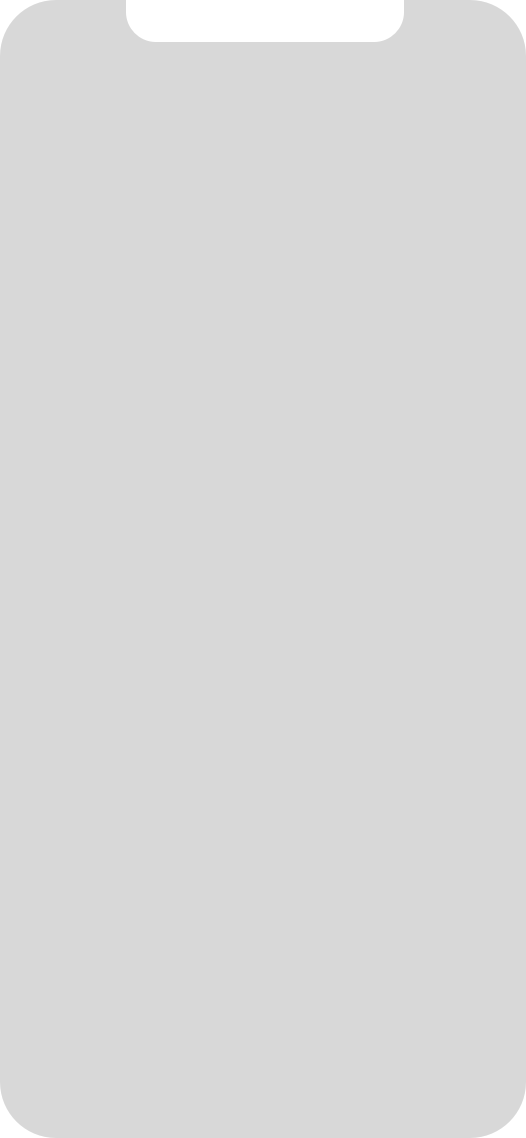
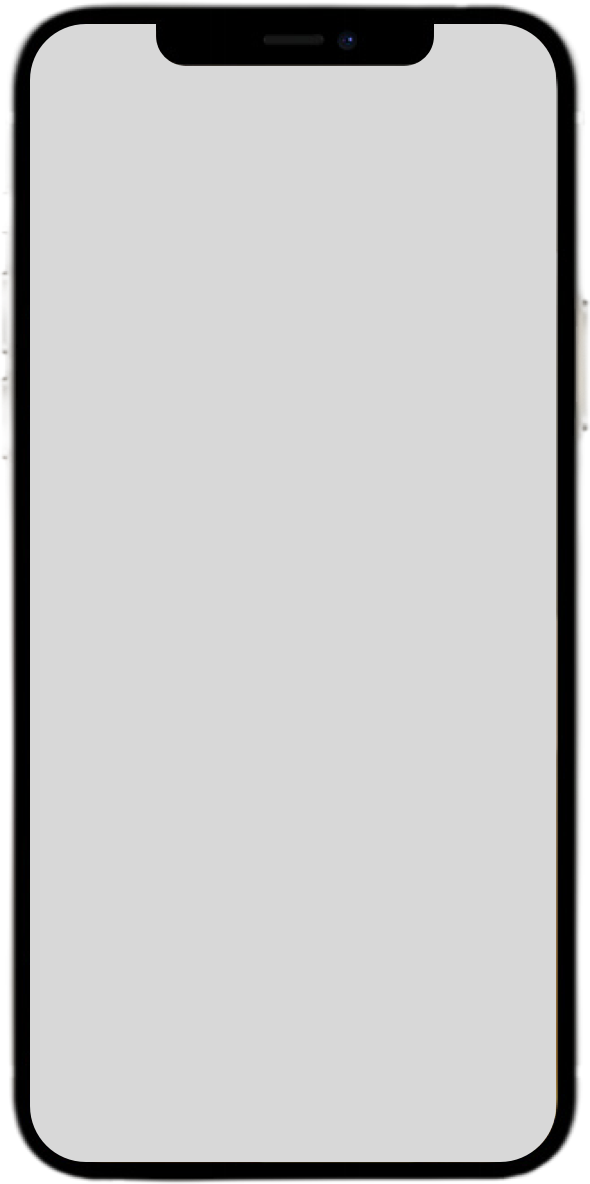
下载页面

Changed region(s): [[0.0, 0.0, 1.0, 1.0]]

diff --git a/src/pages/down/index.vue b/src/pages/down/index.vue
@@ -4,24 +4,37 @@
             <div class="down-phone-bg">
                 <img src="../../assets/image/down/phone-bg.png" alt="" />
             </div>
-            <div></div>
+            <div class="down-phone-bg-2">
+                <img src="../../assets/image/down/phone-bg.png" alt="" />
+            </div>
+            <div class="down-person1">
+                <img src="../../assets/image/down/person1.png" alt="" />
+            </div>
+            <div class="down-person2">
+                <img src="../../assets/image/down/person2.png" alt="" />
+            </div>
+            <div class="chassis-bg">
+                <img src="../../assets/image/down/chassis-bg.png" alt="" />
+            </div>
         </div>
         <div class="down-right">
-            <div></div>
+            <img
+                src="../../assets/image/down/title.png"
+                alt=""
+                class="down-title"
+            />
+
             <h3 class="down-des">体育直播移动下载 - 畅想高清比赛</h3>
             <div class="down-qr">
-                <vue-qr
-                    text="http://facebook.github.io/react/"
-                    :size="190"
-                    :margin="24"
-                />
+                <vue-qr text="dl.mzhibo.cc" :size="190" :margin="24" />
+                <div class="sao-qr">扫一扫下载直播体育APP</div>
             </div>
             <div class="down-btn">
-                <div class="ios-btn">
+                <div class="ios-btn" @click="down(ios)" v-show="ios">
                     <img src="../../assets/image/down/ios-icon.png" alt="" />
                     <span>IOS下载</span>
                 </div>
-                <div class="android-btn">
+                <div class="android-btn" @click="down(android)" v-show="android">
                     <img
                         src="../../assets/image/down/android-icon.png"
                         alt=""
@@ -56,12 +69,8 @@ export default {
         VueQr,
     },
     methods: {
-        down(type) {
-            if (type === 1) {
-                window.location.href = this.android;
-            } else {
-                window.location.href = this.ios;
-            }
+        down(url) {
+            window.location.href = url;
         },
     },
 };
@@ -79,12 +88,65 @@ export default {
         height: 813px;
         position: relative;
         .down-phone-bg {
-            width: 263px;
-            height: 569px;
+            width: 275px;
+            height: auto;
+            position: absolute;
+            z-index: 2;
+            right: 101px;
+            bottom: 170px;
+            img {
+                width: 100%;
+                height: 100%;
+                object-fit: cover;
+            }
+        }
+        .down-phone-bg-2 {
+            width: 243px;
+            height: auto;
             position: absolute;
             z-index: 1;
-            right: 0;
-            top: 30px;
+            left: 100px;
+            bottom: 170px;
+            img {
+                width: 100%;
+                height: 100%;
+                object-fit: cover;
+            }
+        }
+        .down-person1 {
+            width: 360px;
+            height: auto;
+            position: absolute;
+            z-index: 3;
+            right: 270px;
+            bottom: 170px;
+            img {
+                width: 100%;
+                height: 100%;
+                object-fit: cover;
+            }
+        }
+        .down-person2 {
+            width: 246px;
+            height: auto;
+            position: absolute;
+            z-index: 3;
+            right: 60px;
+            bottom: 170px;
+            img {
+                width: 100%;
+                height: 100%;
+                object-fit: cover;
+            }
+        }
+        .chassis-bg {
+            width: 592px;
+            height: auto;
+            position: absolute;
+            z-index: 2;
+            left: 50%;
+            transform: translateX(-50%);
+            bottom: 40px;
             img {
                 width: 100%;
                 height: 100%;
@@ -95,20 +157,40 @@ export default {
     .down-right {
         width: 800px;
         height: 800px;
+        .down-title {
+            width: 732px;
+            height: 76px;
+            margin-bottom: 29px;
+        }
         .down-des {
             color: #605656;
             font-size: 38px;
+            margin-bottom: 58px;
         }
         .down-qr {
+            @include flexStartCenter();
+            .sao-qr {
+                width: 364px;
+                height: 55px;
+                background: #f9433f;
+                border-radius: 28px 28px 28px 0px;
+                @include flexCenter();
+                color: #ffffff;
+                font-size: 24px;
+                margin-left: 56px;
+            }
         }
         .down-btn {
             width: 100%;
             @include flexStartCenter();
+            margin-top: 88px;
+            cursor: pointer;
             .ios-btn {
                 width: 242px;
                 height: 63px;
                 @include bgurl('../../assets/image/down/ios-btn.png');
                 @include flexCenter();
+                margin-right: 33px;
                 img {
                     width: 38px;
                     height: 38px;

diff --git a/src/pages/index.vue b/src/pages/index.vue
@@ -16,7 +16,7 @@
                         :class="{ 'head-exp-left': !getExpansion }"
                         @click="toPage('home')"
                     >
-                        <img />
+                        <img src="../assets/image/logo.png" />
                         <span v-if="getExpansion">体育直播</span>
                     </div>
                     <div class="head-right">
@@ -130,7 +130,7 @@
                                 <el-popover placement="bottom" trigger="hover">
                                     <div class="header-down-qr-box">
                                         <vue-qr
-                                            text="http://facebook.github.io/react/"
+                                            text="dl.mzhibo.cc"
                                             :size="68"
                                             :margin="0"
                                             class="qr-img"
@@ -285,7 +285,7 @@
                     <el-popover placement="right" trigger="hover">
                         <div class="down-qr-box">
                             <vue-qr
-                                text="http://facebook.github.io/react/"
+                                text="dl.mzhibo.cc"
                                 :size="168"
                                 :margin="0"
                                 class="qr-img"

diff --git a/src/components/footer/index.vue b/src/components/footer/index.vue
@@ -35,19 +35,11 @@
 
             <div class="footer-right">
                 <div class="footer-qr-app qr">
-                    <vue-qr
-                        text="http://facebook.github.io/react/"
-                        :size="68"
-                        :margin="0"
-                    />
+                    <vue-qr text="dl.mzhibo.cc" :size="68" :margin="0" />
                     <p>足球APP</p>
                 </div>
                 <div class="footer-qr-focus qr">
-                    <vue-qr
-                        text="http://facebook.github.io/react/"
-                        :size="68"
-                        :margin="0"
-                    />
+                    <vue-qr text="dl.mzhibo.cc" :size="68" :margin="0" />
                     <p>关注我们</p>
                 </div>
             </div>

diff --git a/public/index.html b/public/index.html
@@ -4,7 +4,7 @@
 		<meta charset="utf-8" />
 		<meta http-equiv="X-UA-Compatible" content="IE=edge" />
 		<meta name="viewport" content="width=device-width,initial-scale=1.0" />
-		<link rel="icon" href="<%= BASE_URL %>favicon.ico" />
+		<link rel="icon" href="<%= BASE_URL %>favicon.png" />
 		<title><%= htmlWebpackPlugin.options.title %></title>
 		<link
 			rel="stylesheet"
